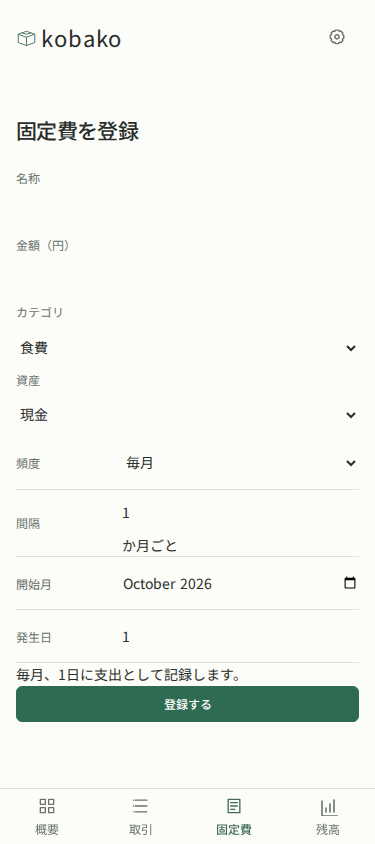
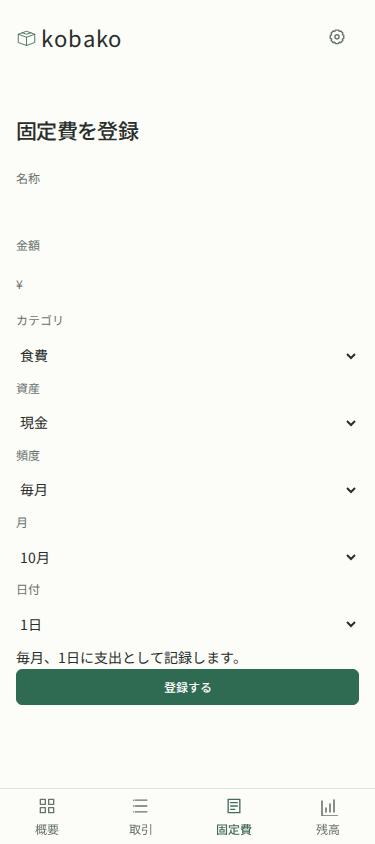
fix: enable fixed cost form editing

diff --git a/apps/web/app/fixed-costs/fixed-cost-form.tsx b/apps/web/app/fixed-costs/fixed-cost-form.tsx
@@ -1,6 +1,6 @@
 'use client';
 
-import { useActionState } from 'react';
+import { useActionState, useEffect, useState } from 'react';
 import { useFormStatus } from 'react-dom';
 import formsStyles from '../forms.module.css';
 import { Button } from '../_components/button';
@@ -22,13 +22,19 @@ export interface FixedCostFormValues {
   day: string;
 }
 
+function frequencyFor(values: FixedCostFormValues): 'monthly' | 'yearly' | 'custom' {
+  if (values.intervalCount === '1' && values.intervalUnit === 'year') return 'yearly';
+  if (values.intervalCount === '1' && values.intervalUnit === 'month') return 'monthly';
+  return 'custom';
+}
+
 export function FixedCostForm({
   action,
   initialValues,
   categories,
   accounts,
   submitLabel,
-  showCancel,
+  showCancel = false,
 }: {
   action: (state: FixedCostFormState, formData: FormData) => Promise<FixedCostFormState>;
   initialValues: FixedCostFormValues;
@@ -38,29 +44,69 @@ export function FixedCostForm({
   showCancel?: boolean;
 }) {
   const [state, formAction] = useActionState(action, {});
-  const values = { ...initialValues, ...state.values };
-  const errors = state.fieldErrors ?? {};
+  const [values, setValues] = useState(initialValues);
+  const frequency = frequencyFor(values);
+  useEffect(() => {
+    if (state.values) setValues({ ...initialValues, ...state.values });
+  }, [state.values, initialValues]);
+  function update<K extends keyof FixedCostFormValues>(key: K, value: FixedCostFormValues[K]) {
+    setValues((current) => ({ ...current, [key]: value }));
+  }
+  function updateFrequency(next: string) {
+    update(
+      'intervalCount',
+      next === 'custom' ? (values.intervalCount === '1' ? '2' : values.intervalCount) : '1',
+    );
+    update('intervalUnit', next === 'yearly' ? 'year' : 'month');
+  }
+  const [year, month] = values.startMonth.slice(0, 7).split('-');
+  const note =
+    frequency === 'yearly'
+      ? `毎年、${Number(month)}月${values.day}日に支出として記録します。`
+      : frequency === 'custom'
+        ? `${values.intervalCount}${values.intervalUnit === 'year' ? '年' : 'か月'}ごと、${values.day}日に支出として記録します。`
+        : `毎月、${values.day}日に支出として記録します。`;
   return (
     <form action={formAction} className={formsStyles['ledger-form']} noValidate>
+      <input
+        type="hidden"
+        name="startMonth"
+        value={`${year || new Date().getFullYear()}-${month || String(new Date().getMonth() + 1).padStart(2, '0')}`}
+      />
       <Field className={formsStyles.field}>
         <label htmlFor="fixed-cost-name">名称</label>
-        <Input id="fixed-cost-name" name="name" value={values.name} maxLength={120} required />
-        <Error messages={errors.name} />
-      </Field>
-      <Field className={formsStyles.field}>
-        <label htmlFor="fixed-cost-amount">金額（円）</label>
         <Input
-          id="fixed-cost-amount"
-          name="amount"
-          inputMode="numeric"
-          value={values.amount}
+          id="fixed-cost-name"
+          name="name"
+          value={values.name}
+          onChange={(event) => update('name', event.currentTarget.value)}
+          maxLength={120}
           required
         />
-        <Error messages={errors.amount} />
+      </Field>
+      <Field className={formsStyles.field}>
+        <label htmlFor="fixed-cost-amount">金額</label>
+        <div className={formsStyles['amount-line']}>
+          <span aria-hidden="true">¥</span>
+          <Input
+            id="fixed-cost-amount"
+            name="amount"
+            inputMode="numeric"
+            value={values.amount}
+            onChange={(event) => update('amount', event.currentTarget.value)}
+            required
+          />
+        </div>
       </Field>
       <Field className={formsStyles.field}>
         <label htmlFor="fixed-cost-category">カテゴリ</label>
-        <Select id="fixed-cost-category" name="categoryId" value={values.categoryId} required>
+        <Select
+          id="fixed-cost-category"
+          name="categoryId"
+          value={values.categoryId}
+          onChange={(event) => update('categoryId', event.currentTarget.value)}
+          required
+        >
           <option value="">選択してください</option>
           {categories.map((category) => (
             <option value={category.id} key={category.id}>
@@ -68,11 +114,16 @@ export function FixedCostForm({
             </option>
           ))}
         </Select>
-        <Error messages={errors.categoryId} />
       </Field>
       <Field className={formsStyles.field}>
         <label htmlFor="fixed-cost-account">資産</label>
-        <Select id="fixed-cost-account" name="accountId" value={values.accountId} required>
+        <Select
+          id="fixed-cost-account"
+          name="accountId"
+          value={values.accountId}
+          onChange={(event) => update('accountId', event.currentTarget.value)}
+          required
+        >
           <option value="">選択してください</option>
           {accounts.map((account) => (
             <option value={account.id} key={account.id}>
@@ -80,16 +131,26 @@ export function FixedCostForm({
             </option>
           ))}
         </Select>
-        <Error messages={errors.accountId} />
       </Field>
-      <div className={formsStyles['entry-detail-grid']}>
-        <Field className={formsStyles.field}>
-          <label htmlFor="fixed-cost-interval-unit">頻度</label>
-          <Select id="fixed-cost-interval-unit" name="intervalUnit" value={values.intervalUnit}>
-            <option value="month">毎月</option>
-            <option value="year">毎年</option>
-          </Select>
-        </Field>
+      <Field className={formsStyles.field}>
+        <label htmlFor="fixed-cost-frequency">頻度</label>
+        <Select
+          id="fixed-cost-frequency"
+          value={frequency}
+          onChange={(event) => updateFrequency(event.currentTarget.value)}
+        >
+          <option value="monthly">毎月</option>
+          <option value="yearly">毎年</option>
+          <option value="custom">間隔を指定</option>
+        </Select>
+        {frequency === 'custom' ? null : (
+          <>
+            <input type="hidden" name="intervalCount" value={values.intervalCount} />
+            <input type="hidden" name="intervalUnit" value={values.intervalUnit} />
+          </>
+        )}
+      </Field>
+      {frequency === 'custom' ? (
         <Field className={formsStyles.field}>
           <label htmlFor="fixed-cost-interval-count">間隔</label>
           <div>
@@ -100,53 +161,57 @@ export function FixedCostForm({
               min={1}
               max={120}
               value={values.intervalCount}
-              required
+              onChange={(event) => update('intervalCount', event.currentTarget.value)}
             />
-            <span> {values.intervalUnit === 'year' ? '年ごと' : 'か月ごと'}</span>
+            <Select
+              name="intervalUnit"
+              aria-label="間隔の単位"
+              value={values.intervalUnit}
+              onChange={(event) => update('intervalUnit', event.currentTarget.value)}
+            >
+              <option value="month">か月ごと</option>
+              <option value="year">年ごと</option>
+            </Select>
           </div>
-          <Error messages={errors.intervalCount} />
         </Field>
-      </div>
-      <div className={formsStyles['entry-detail-grid']}>
-        <Field className={formsStyles.field}>
-          <label htmlFor="fixed-cost-start-month">開始月</label>
-          <Input
-            id="fixed-cost-start-month"
-            name="startMonth"
-            type="month"
-            value={values.startMonth}
-            required
-          />
-          <Error messages={errors.startMonth} />
-        </Field>
-        <Field className={formsStyles.field}>
-          <label htmlFor="fixed-cost-day">発生日</label>
-          <Input
-            id="fixed-cost-day"
-            name="day"
-            type="number"
-            min={1}
-            max={31}
-            value={values.day}
-            required
-          />
-          <Error messages={errors.day} />
-        </Field>
-      </div>
-      <p className={formsStyles['form-note']}>毎月、{values.day}日に支出として記録します。</p>
+      ) : null}
+      <Field className={formsStyles.field}>
+        <label htmlFor="fixed-cost-month">月</label>
+        <Select
+          id="fixed-cost-month"
+          aria-label="月"
+          value={month}
+          onChange={(event) => update('startMonth', `${year}-${event.currentTarget.value}`)}
+        >
+          {Array.from({ length: 12 }, (_, index) => (
+            <option value={String(index + 1).padStart(2, '0')} key={index + 1}>
+              {index + 1}月
+            </option>
+          ))}
+        </Select>
+      </Field>
+      <Field className={formsStyles.field}>
+        <label htmlFor="fixed-cost-day">日付</label>
+        <Select
+          id="fixed-cost-day"
+          name="day"
+          value={values.day}
+          onChange={(event) => update('day', event.currentTarget.value)}
+        >
+          {Array.from({ length: 31 }, (_, index) => (
+            <option value={String(index + 1)} key={index + 1}>
+              {index + 1}日
+            </option>
+          ))}
+        </Select>
+      </Field>
+      <p className={formsStyles['form-note']}>{note}</p>
       {state.message ? <p role="alert">{state.message}</p> : null}
+      {state.fieldErrors ? <p role="alert">入力内容を確認してください。</p> : null}
       {showCancel ? <a href="/fixed-costs">キャンセル</a> : null}
       <Submit label={submitLabel} />
     </form>
   );
-}
-
-function Error({ messages }: { messages?: readonly string[] }) {
-  return messages?.[0] ? (
-    <span className={formsStyles['field-error']} role="alert">
-      {messages[0]}
-    </span>
-  ) : null;
 }
 
 function Submit({ label }: { label: string }) {

diff --git a/apps/web/e2e/fixed-costs.spec.ts b/apps/web/e2e/fixed-costs.spec.ts
@@ -16,17 +16,16 @@ test.describe('固定費', () => {
     await page.goto('/fixed-costs');
     await page.getByRole('link', { name: '固定費を登録' }).click();
     await page.getByLabel('名称').fill('E2E固定費');
-    await page.getByLabel('金額（円）').fill('1234');
+    await page.getByLabel('金額').fill('1234');
     await page.getByLabel('カテゴリ').selectOption({ label: '娯楽' });
     await page.getByLabel('資産').selectOption({ label: '生活費口座' });
-    await page.getByLabel('開始月').fill('2026-01');
-    await page.getByLabel('発生日').fill('20');
+    await page.getByLabel('日付').selectOption('20');
     await page.getByRole('button', { name: '登録する' }).click();
     await expect(page).toHaveURL(/\/fixed-costs$/);
     await expect(page.getByRole('link', { name: /E2E固定費/ }).first()).toBeVisible();
 
     await page.getByRole('link', { name: /E2E固定費/ }).click();
-    await page.getByLabel('金額（円）').fill('4321');
+    await page.getByLabel('金額').fill('4321');
     await page.getByRole('button', { name: '保存する' }).click();
     await expect(page).toHaveURL(/\/fixed-costs$/);
     await expect(page.getByText('4,321円')).toBeVisible();
@@ -36,9 +35,9 @@ test.describe('固定費', () => {
     await expect(page.getByText('Amazon Prime')).toBeVisible();
     await expect(page.getByText('E2E固定費')).not.toBeVisible();
     await page.getByRole('button', { name: '条件をクリア' }).click();
-    await page.getByRole('button', { name: 'グループ', exact: true }).click();
+    await page.getByRole('button', { name: /^グループ/ }).click();
     await page.getByRole('menuitemradio', { name: '頻度別' }).click();
-    await expect(page.getByRole('button', { name: /グループ: 頻度別/ })).toHaveAttribute(
+    await expect(page.getByRole('button', { name: /グループ.*頻度別/ })).toHaveAttribute(
       'aria-expanded',
       'false',
     );
@@ -46,18 +45,26 @@ test.describe('固定費', () => {
       .poll(() => page.evaluate(() => localStorage.getItem('kobako-fixed-cost-group')))
       .toBe('frequency');
     await page.reload();
-    await expect(page.getByRole('button', { name: /グループ: 頻度別/ })).toBeVisible();
+    await expect(page.getByRole('button', { name: /グループ.*頻度別/ })).toBeVisible();
 
     await page.getByRole('button', { name: 'カテゴリ', exact: true }).click();
     await page.getByRole('menuitemradio', { name: '娯楽' }).click();
     await expect(page.getByText('Netflix')).toBeVisible();
     await expect(page.getByText('家賃')).not.toBeVisible();
-    await page.getByRole('button', { name: /カテゴリ: 娯楽/ }).click();
+    await page.getByRole('button', { name: /カテゴリ.*娯楽/ }).click();
     await page.getByRole('menuitemradio', { name: 'すべて' }).click();
     await page.getByRole('link', { name: /E2E固定費/ }).click();
     await page.getByRole('button', { name: '削除' }).click();
     await expect(page).toHaveURL(/\/fixed-costs$/);
     await expect(page.getByText('E2E固定費')).not.toBeVisible();
+  });
+
+  test('入力エラーを表示する', async ({ page }) => {
+    await page.goto('/fixed-costs/new');
+    await page.getByRole('button', { name: '登録する' }).click();
+    await expect(
+      page.getByRole('alert').filter({ hasText: '入力内容を確認してください。' }),
+    ).toBeVisible();
   });
 
   test('モバイル幅で横 overflow を発生させない', async ({ page }) => {
